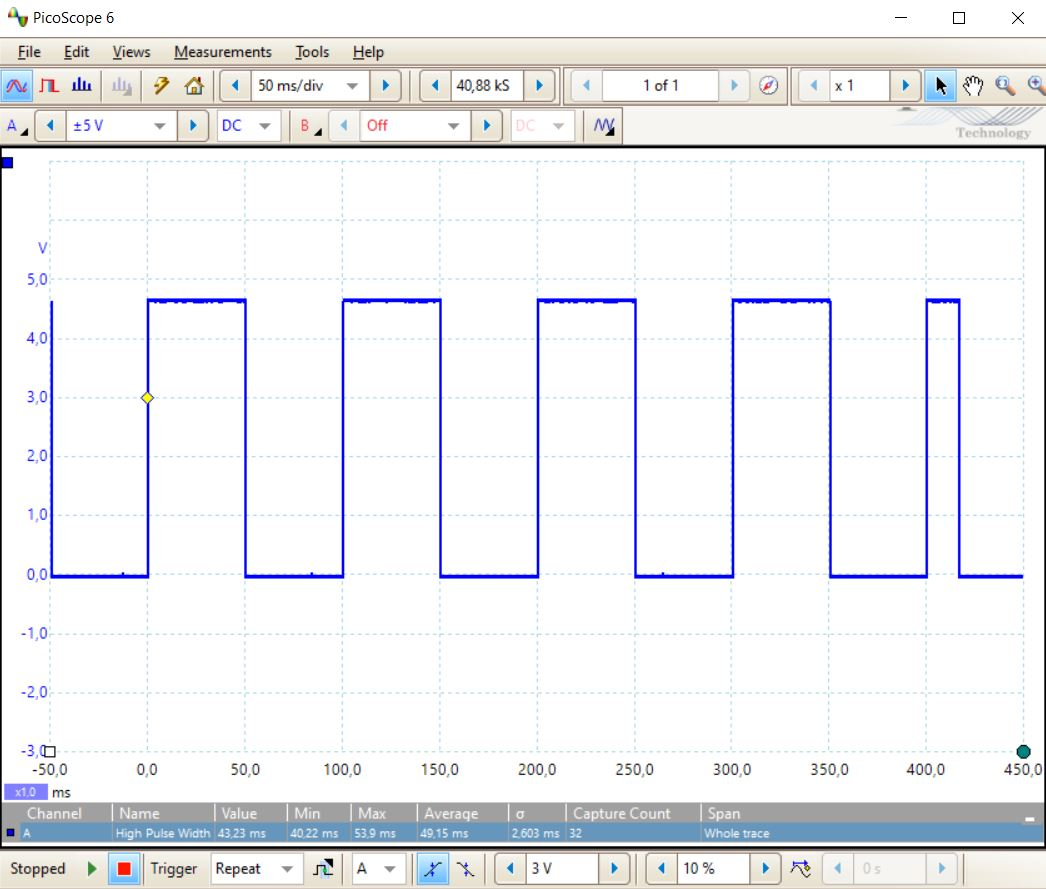
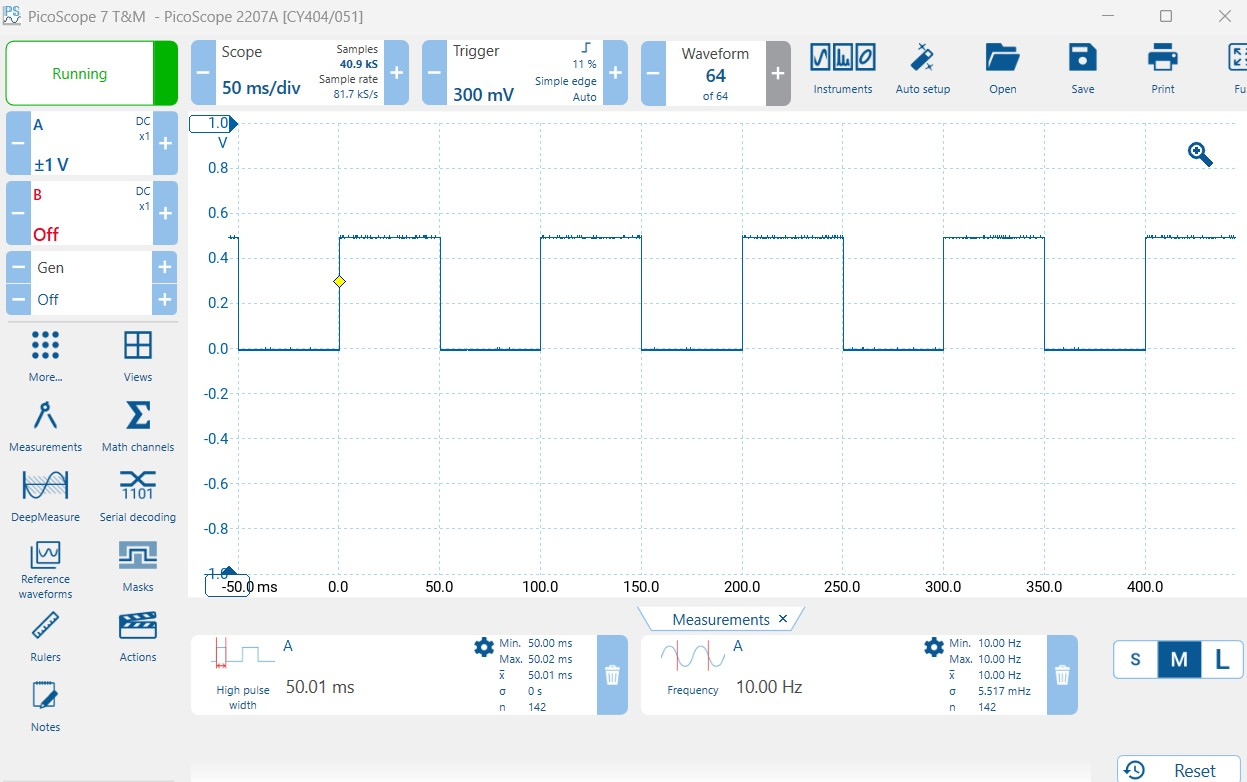
Update chapter11_07 docs and comments

diff --git a/examples/chapter11_07/src/app/led/app_led.cpp b/examples/chapter11_07/src/app/led/app_led.cpp
@@ -52,11 +52,12 @@ void app_led_task_toggle_led0(void*)
   // this task is, in fact, intended to preemptively interrupt
   // the lower-priority background task.
 
-  // If using the host (such as _MSC_VER or GCC on x86_64),
-  // FreeRTOS is not used, but rather the C++ <thread> library
-  // is used for simulated task scheduling. These do not have
-  // priorities, but the thread scheduler supports preemptive
-  // scheduling and emulates the desired timing quite well.
+  // If using the simulated host (such as _MSC_VER or GCC on x86_64),
+  // FreeRTOS is not used, but rather the C++ <thread> and <chrono>
+  // libraries are used for simulated task scheduling. The <thread>
+  // library does not use adjustable priorities in this case, but the
+  // thread scheduler supports preemptive scheduling and emulates
+  // the desired timing quite well.
 
   for(;;)
   {

diff --git a/examples/chapter11_07/readme.md b/examples/chapter11_07/readme.md
@@ -9,16 +9,17 @@ that features a main task and a low-priority background task.
 
 This example features two preemptive tasks within a multitasking envoronment.
 The application task supports the _blinky_ functionality with LED on/off each 1s.
-The application task has higher priority and also yields every $70~\text{ms}$.
+The application task has higher priority and also yields every $125~\text{ms}$.
 The second task is a background task. It runs continuously,
 without cooperative yield. The background task, however,
 by virtue of having lower task priority will be interrupted
 by the higher priority application task. The background task
-toggles a second LED each $50~\text{ms}$.
+toggles a second LED on `portd.3` every $50~\text{ms}$
+resulting in a frequency of approximately $10~\text{Hz}$.
 
 These days there are numerous choices available when selecting OS-es
 and/or multitasking schedulers for embedded systems. The selection
-ranges from either commercially available, free-ware or self-written options.
+includes a variety of either commercially available, free-ware or self-written options.
 In this particular expression of Example Chapter11_07, we select
 [FreeRTOS](https://www.freertos.org).
 
@@ -34,18 +35,21 @@ The tasks are summarized in the code snippet below.
 extern "C"
 void app_led_task_background(void*)
 {
-  // This background task runs perpetually without pause, break or yield.
-  // This task has lowest priority and will be interrupted by the task
-  // having higher priority.
+  // This background task runs perpetually without pause, break or yield
+  // This task has lowest priority and will be interrupted by any other
+  // task having higher priority, such as the LED 1/2 Hz toggle task
+  // (i.e., app_led_timer_toggle_led0).
 
   for(;;)
   {
     while((!app_led_timer_background.timeout()))
     {
-      ;
+      mcal::cpu::nop();
     }
 
-    app_led_timer_background.start_interval(app_led_timer_type::milliseconds(50U));
+    app_led_timer_background.start_interval(app_led_timer_type::milliseconds(app_led_tick_type { UINT8_C(50) }));
+
+    // Toggle led1 every 50ms.
 
     mcal::led::led1().toggle();
   }
@@ -54,22 +58,34 @@ void app_led_task_background(void*)
 extern "C"
 void app_led_task_toggle_led0(void*)
 {
-  // This application task is intended to yield every 70 ms. It has higher
-  // priority than the background task. This task will, in fact, preemptively
-  // interrupt the lower-priority background task.
+  // When using FreeRTOS, this task has higher priority than
+  // the background task. Due to its higher task-priority,
+  // this task is, in fact, intended to preemptively interrupt
+  // the lower-priority background task.
+
+  // If using the simulated host (such as _MSC_VER or GCC on x86_64),
+  // FreeRTOS is not used, but rather the C++ <thread> and <chrono>
+  // libraries are used for simulated task scheduling. The <thread>
+  // library does not use adjustable priorities in this case, but the
+  // thread scheduler supports preemptive scheduling and emulates
+  // the desired timing quite well.
 
   for(;;)
   {
     mcal::wdg::secure::trigger();
 
+    // Toggle led0 every 1s.
+
     if(app_led_timer_toggle_led0.timeout())
     {
-      app_led_timer_toggle_led0.start_interval(app_led_timer_type::seconds(1U));
+      app_led_timer_toggle_led0.start_interval(app_led_timer_type::seconds(app_led_tick_type { UINT8_C(1) }));
 
       mcal::led::led0().toggle();
     }
 
-    OS_TASK_WAIT_YIELD(OS_TASK_MSEC(70U));
+    // This application task is programmed to yield every 125ms.
+
+    OS_TASK_WAIT_YIELD(TickType_t { UINT8_C(125) });
   }
 }
 ```
@@ -80,12 +96,16 @@ The port for the ATmega328P target can be found in
 [port.cpp](./src/os/FreeRTOS/Source/portable/GCC-ATMega328/port.cpp).
 This OS-portable part has been modified for this example
 via changes including switching from a C to a C++ file,
-cleaning up spaces, tabs and alignment of typing,
-OS tick using `timer1` compare-match-a to generate
-a tick interrupt at $100~\text{Hz}$ (every 10ms),
-using an undecorated ISR handle name `__vector_11`,
-and using C++ register template access to setup the timer
-for the OS tick.
+cleaning up spaces, tabs and alignment of typing.
+The OS tick uses `compare-match-a` from `timer1` to generate
+a tick interrupt at $100~\text{Hz}$ (i.e., approximately every $10~\text{ms}$)
+using an undecorated ISR handle named `__vector_11`.
+
+If using the simulated host (such as `_MSC_VER` or GCC on `x86_64`),
+FreeRTOS is not used, but rather the C++ `<thread>` and `<chrono>` libraries
+are used for simulated task scheduling. The `<thread>` library
+does not use adjustable priorities in this case, but the thread scheduler
+supports preemptive scheduling and emulates the desired timing quite well.
 
 ## Hardware Setup
 
@@ -97,12 +117,7 @@ The background $10~\text{Hz}$ toggle pin can be found on `portd.3`.
 ![](./images/board11_07.jpg)
 
 The oscilloscope image below captures the toggle cycle
-of the LED in the background task.
-The background task, although programmed to toggle its
-pin every $50~\text{ms}$ does have slight, occasional variations
-in its toggle cycle. These are due to task jitter
-and the fact that the background task is interrupted
-by the call cycle and subsequent execution of the
-application task (which has higher priority).
+of the LED in the background task at a frequency
+of approximately $10~\text{Hz}$
 
 ![](./images/scope11_07.jpg)
